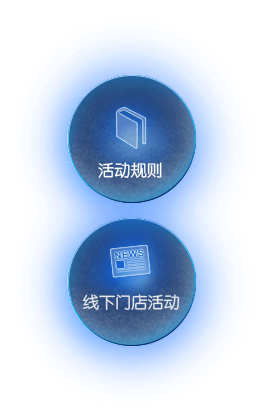
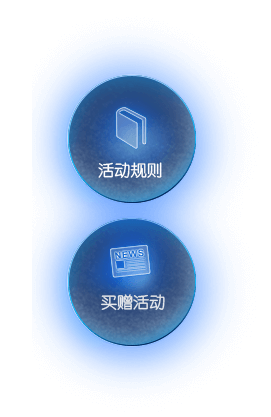
门店

Changed region(s): [[0.2952, 0.6859, 0.679, 0.7482]]

diff --git a/src/index.js b/src/index.js
@@ -19,6 +19,7 @@ import Login from './components/Login'
 import Create from './components/Create'
 import ApplyResult from './components/ApplyResult'
 import Rule from './components/Rule'
+import Shop from './components/Shop'
 
 //require.ensure([], () => {})
 	//const isProduction = false;
@@ -291,6 +292,16 @@ import Rule from './components/Rule'
 
 		var bindEvents = function(){
 			var wrap = $('#wrapper');
+
+			// 显示门店详情
+			wrap.on('click', '.action-show-event', function(e){
+				e.preventDefault();
+				console.log('action-show-event button clicked')
+
+				new Shop().render('div.shop')
+				Action.showPanel('shop')
+			})
+
 
 			// 显示活动规则
 			wrap.on('click', '.action-show-rule', function(e){

diff --git a/src/components/ApplyResult/Template.html b/src/components/ApplyResult/Template.html
@@ -4,7 +4,7 @@
 		<h3>申领成功</h3>
 		<p>活动结束后，我们会抽取大奖，<br>奖项将于2016年3月31日公布,请关注官方详情。<br>我们会尽快按照您填写的信息发送试用装，<br>感谢您的参与！</p>
 		<div class="event">
-			<p>线下门店购买甜睡系列，即送大礼！<a href="javascript:;" class="action-show-event"></a></p>
+			<p>甜睡系列买赠活动火热进行中！<a href="javascript:;" class="action-show-event"></a></p>
 		</div>
 		<a class="button action-show-star" href="javascript:;">查看我的甜睡神器</a>
 	</div>

diff --git a/src/styles/Popup.scss b/src/styles/Popup.scss
@@ -194,4 +194,21 @@
 			}
 		}	
 	}
+	&.shop{
+		width: 1170px + 40px;
+		margin-top: -1/2*762px - 1/2*40px;
+		margin-left: -1/2*1170px - 1/2*40px;
+
+		.bd{
+			background: rgba(8, 71, 126, .6);
+			padding: 20px;
+			.form{
+				width: 100%;
+				height: 762px;
+				border: 2px solid #08477e;
+				background: url(../images/panel-bg-black-3.jpg) center top no-repeat;
+				background-size: cover
+			}
+		}	
+	}
 }

diff --git a/src/components/Navigation/Template.html b/src/components/Navigation/Template.html
@@ -5,5 +5,5 @@
 <!-- 左侧导航 -->
 <ul class="left-nav">
 	<li><a href="#" class="action-show-rule">活动规则</a></li>
-	<li><a href="#">线下门店活动</a></li>
+	<li><a href="#" class="action-show-event">线下门店活动</a></li>
 </ul>

diff --git a/src/components/Shop/Index.js b/src/components/Shop/Index.js
@@ -1,0 +1,12 @@
+import $ from 'jquery'
+import template from './Template.html'
+import Mustache from 'mustache'
+
+export default class Shop {
+	
+	render(node) {
+		$(node).html(
+            Mustache.render(template)
+        );
+    }
+}

diff --git a/src/components/Shop/Template.html b/src/components/Shop/Template.html
@@ -1,0 +1,7 @@
+<div class="bd">
+	<div class="form">
+		<a href="javascript:;" class="action-back">返回</a>
+		<a href="" class="link link-1" target="_blank"></a>
+		<a href="" class="link link-2" target="_blank"></a>
+	</div>
+</div>

diff --git a/src/styles/Shop.scss b/src/styles/Shop.scss
@@ -1,0 +1,15 @@
+.shop{
+	.link{
+		display: block;
+		position: absolute;
+		width: 220px;
+		height: 50px;
+		right: 150px;
+	}
+	.link-1{
+		bottom: 180px;
+	}
+	.link-2{
+		bottom: 74px;
+	}
+}

diff --git a/index.html b/index.html
@@ -88,6 +88,9 @@
 
 		<div class="rule popup-panel"></div>
 		<!--//活动规则-->
+
+		<div class="shop popup-panel"></div>
+		<!--//门店详情-->
 		
 	</div>
 	<!--//wrapper-->

diff --git a/src/styles/styles.scss b/src/styles/styles.scss
@@ -27,5 +27,6 @@ $ease: .4s;
 @import 'MediaQuery';
 @import 'Slick';
 @import 'Rule';
+@import 'Shop';
 @import 'Browser'
 
